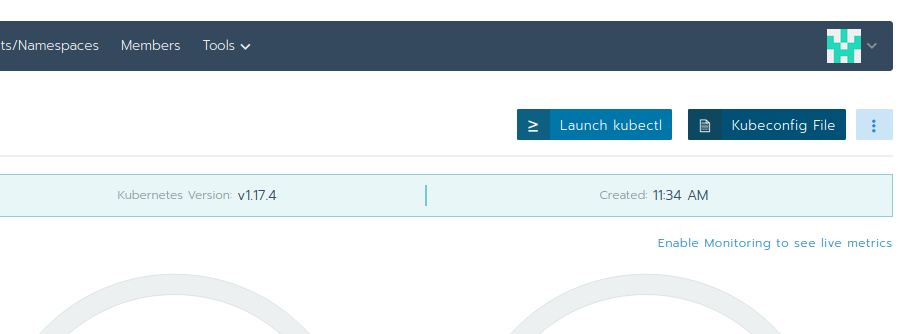
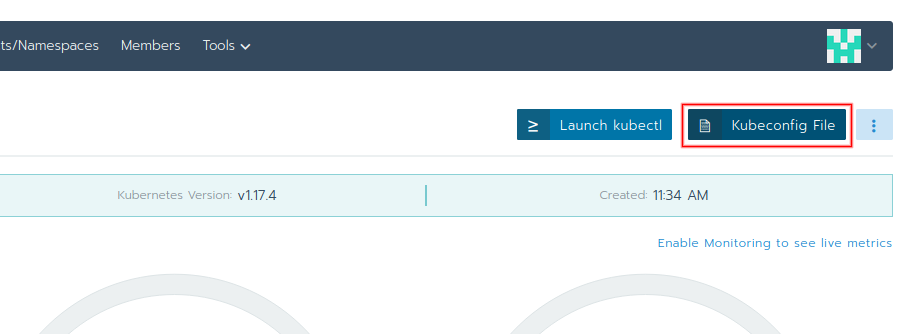
Optimizations of phrasing, wording and terms

Changed region(s): [[0.7296, 0.2994, 0.9425, 0.4491]]

diff --git a/content/en/docs/03.0/_index.en.md b/content/en/docs/03.0/_index.en.md
@@ -5,7 +5,7 @@ sectionnumber: 3
 ---
 
 
-In this lab, we will interact for the first time with the Kubernetes cluster.
+In this lab, we will interact with the Kubernetes cluster for the first time.
 
 {{% alert title="Tip" color="warning" %}}
 Please make sure you completed [lab 2](../02.0/) before you continue with this lab.
@@ -15,33 +15,32 @@ Please make sure you completed [lab 2](../02.0/) before you continue with this l
 ## Login and choose a Kubernetes cluster
 
 {{% alert title="Note" color="warning" %}}
-Authentication depends on the specific Kubernetes cluster environment. You may need special instructions if you're not
-using our lab environment.
+Authentication depends on the specific Kubernetes cluster environment. You may need special instructions if you're not using our lab environment.
 {{% /alert %}}
 
 {{< onlyWhen rancher >}}
-Our Kubernetes cluster of the lab environment runs on [cloudscale.ch](https://cloudscale.ch) (a swiss IaaS Provider) and has been provisioned with [Rancher](https://rancher.com/). You can login into the cluster with a Rancher user.
+Our Kubernetes cluster of the lab environment runs on [cloudscale.ch](https://cloudscale.ch) (a Swiss IaaS provider) and has been provisioned with [Rancher](https://rancher.com/). You can log in into the cluster with a Rancher user.
 
 {{% alert title="Tip" color="warning" %}}
-For details about your credentials to log in, ask your teacher.
+Your teacher will provide you with the credentials to log in.
 {{% /alert %}}
 
-Login into the Rancher WebGUI choose the desired cluster.
+Log in to the Rancher web console and choose the desired cluster.
 
-On the cluster dashboard you find top right a button with `Kubeconfig File`. Save the config file into your homedirectory `.kube/config`. Verify afterwards if `kubectl` works correctly e.g. with `kubectl version`
+You now see a button at the top right that says **Kubeconfig File**. Click it, scroll down to the bottom and click **Copy to Clipboard**.
 
-![Download Kubeconfig File](kubectlconfigfilebutton.png)
+![Download kubeconfig File](kubectlconfigfilebutton.png)
+
+The copied kubeconfig now needs to be put into a file. The default location for the kubeconfig file is `~/.kube/config`.
 
 {{% alert title="Tip" color="warning" %}}
-If you already have a kubeconfig file, you might need to merge the Rancher entries with yours. Or use the KUBECONFIG environment variable to specify a dedicated file.
+If you already have a kubeconfig file, you might need to merge the Rancher entries with yours. Or use a dedicated file as described below.
 {{% /alert %}}
+
+Put the copied content into a kubeconfig file on your system.
+If you decide to not use the default kubeconfig location at `~/.kube/config` then let `kubectl` know where you put it with the KUBECONFIG environment variable:
 
 ```
-#example location ~/.kube-techlab/config
-vim ~/.kube-techlab/config
-# paste content
-
-# set KUBECONFIG Environment Variable to the correct file
 export KUBECONFIG=$KUBECONFIG:~/.kube-techlab/config
 ```
 
@@ -50,16 +49,16 @@ export KUBECONFIG=$KUBECONFIG:~/.kube-techlab/config
 
 ## Namespaces
 
-As a first step we are going to create a new namespace.
+As a first step on the cluster we are going to create a new namespace.
 
 A namespace is the logical design used in Kubernetes to organize and separate your applications, Deployments, Pods, Ingresses, Services, etc., on a top-level basis. Take a look at the [Kubernetes docs](https://kubernetes.io/docs/concepts/overview/working-with-objects/namespaces/). Authorized users inside a namespace are able to manage those resources. Namespace names have to be unique in your cluster.
 
 {{< onlyWhen rancher >}}
 {{% alert title="Note" color="warning" %}}
-Additionally, Rancher does know the concept of a [project](https://rancher.com/docs/rancher/v2.x/en/cluster-admin/projects-and-namespaces/) which encapsulates multiple namespaces.
+Additionally, Rancher knows the concept of a [*Project*](https://rancher.com/docs/rancher/v2.x/en/cluster-admin/projects-and-namespaces/) which encapsulates multiple namespaces.
 {{% /alert %}}
 
-In the Rancher WebGUI you can now choose your Project called `techlab`
+In the Rancher web console choose the Project called `techlab`.
 
 ![Rancher Project](chooseproject.png)
 
@@ -71,12 +70,12 @@ In the Rancher WebGUI you can now choose your Project called `techlab`
 Create a new namespace in the lab environment.
 
 {{% alert title="Note" color="warning" %}}
-Please choose an identifying name for the namespace, in best case your abbreviation. We are going to use `<namespace>` as a placeholder for your created namespace.
+Please choose an identifying name for your Namespace, e.g. your initials or name as a prefix. We are going to use `<namespace>` as a placeholder for your created Namespace.
 {{% /alert %}}
 
 
 {{% alert title="Tip" color="warning" %}}
-How can a new namespace be created? The `kubectl` can help you to figure out the right commands:
+How can a new Namespace be created? The `kubectl` can help you figure out the right command:
 
 ```bash
 kubectl help
@@ -87,7 +86,7 @@ kubectl help
 
 ### Solution
 
-To create a new namespace on your cluster use the following command:
+To create a new Namespace on your cluster use the following command:
 
 ```bash
 kubectl create namespace <namespace>
@@ -95,16 +94,16 @@ kubectl create namespace <namespace>
 
 {{< onlyWhen rancher >}}
 {{% alert title="Note" color="warning" %}}
-Namespaces created via `kubectl`, have to be assigned to your Rancher project in order to be seen inside the Rancher WebGUI. Ask your teacher for the assignement. Or you can create the namespace directlly within the Rancher WebGui
+Namespaces created via `kubectl` have to be assigned to the correct Rancher Project in order to be visible in the Rancher web console. Please ask your teacher for this assignment. Or you can create the namespace directly within the Rancher web console.
 {{% /alert %}}
 {{< /onlyWhen >}}
 
-
 {{% alert title="Tip" color="warning" %}}
-By using the following command, you can switch into another namespace instead of specifying the namespace for each `kubectl` command:
+By using the following command, you can switch into another Namespace instead of specifying it for each `kubectl` command.
+
+Linux:
 
 ```bash
-# Linux:
 kubectl config set-context $(kubectl config current-context) --namespace <namespace>
 ```
 
@@ -112,13 +111,11 @@ Windows:
 
 ```bash
 kubectl config current-context
-// Save the context in a variable
 SET KUBE_CONTEXT=[Insert output of the upper command]
 kubectl config set-context %KUBE_CONTEXT% --namespace <namespace>
 ```
 
-Some prefer to explicitly select the namespace for each `kubectl` command by adding `--namespace <namespace>`
-or `-n <namespace>`. And others prefer helper tools like `kubens`, see [lab 2](../02.0)
+Some prefer to explicitly select the Namespace for each `kubectl` command by adding `--namespace <namespace>` or `-n <namespace>`. Others prefer helper tools like `kubens` (see [lab 2](../02.0)).
 {{% /alert %}}
 
 
@@ -127,13 +124,13 @@ or `-n <namespace>`. And others prefer helper tools like `kubens`, see [lab 2](.
 
 ## Task {{% param sectionnumber %}}.2: Discover the Rancher web console
 
-Check the menu entries, there should neither appear any deployments nor any Pods or Services in your namespace.
+Check the menu entries, there should neither appear any Deployments nor any Pods or Services in your Namespace.
 
-Display all existing Pods in the previously created namespace with `kubectl`  (there should not yet be any!):
+Display all existing Pods in the previously created Namespace with `kubectl` (there shouldn't yet be any):
 
 ```bash
 kubectl get pod -n <namespace>
 ```
 
-With the command `kubectl get` you can display all kinds of resources of different types.
+With the command `kubectl get` you can display all kinds of resources.
 {{< /onlyWhen >}}

diff --git a/content/en/docs/02.0/_index.en.md b/content/en/docs/02.0/_index.en.md
@@ -19,33 +19,30 @@ As the client is written in Go, you can run the single binary on the following o
 
 {{< onlyWhen rancher >}}
 {{% alert title="Tip" color="warning" %}}
-In Rancher you can also use `kubectl` directly within your browser. As soon as you are loggend in Rancher WebGUI, click on "Launch kubectl" (or use the ° key) and you get a console with `kubectl` installed and configured.
+In Rancher you can also use `kubectl` directly within your browser. As soon as you are logged in in the Rancher web console, click on **Launch kubectl** (or use the ° key) and you get a console with `kubectl` installed and configured.
 {{% /alert %}}
 {{< /onlyWhen >}}
 
 
 ## Manual installation of kubectl
 
-Follow <https://kubernetes.io/docs/tasks/tools/install-kubectl/>
+Follow <https://kubernetes.io/docs/tasks/tools/install-kubectl/>.
 
 In case the installation from the official package repositories didn't work (or a specific version is needed) the static binary can be downloaded and put into one of the following paths.
 
-
-**Linux:**
-
-```
-~/bin
-```
-
-
-**macOS:**
+Linux:
 
 ```
 ~/bin
 ```
 
+macOS:
 
-**Windows:**
+```
+~/bin
+```
+
+Windows:
 
 ```
 C:\Kubernetes\
@@ -64,7 +61,7 @@ chmod +x kubectl
 
 ## PATH variable
 
-In **Linux** and **macOSX** the directory `~/bin` should already be part of the `PATH` variable.
+In Linux and macOS the directory `~/bin` should already be part of the `PATH` variable.
 In case `kubectl` is placed in a different directory, you can change the `PATH` variable with the following command:
 
 ```bash
@@ -80,7 +77,7 @@ The `PATH` can be set in Windows in the advanced system settings. It depends on 
 * [Windows 8](http://www.itechtics.com/customize-windows-environment-variables/)
 * [Windows 10](http://techmixx.de/windows-10-umgebungsvariablen-bearbeiten/)
 
-{{% alert title="Windows Quick Hack" color="warning" %}}
+{{% alert title="Windows quick hack" color="warning" %}}
 Copy the `kubectl` binary directly into the folder `C:\Windows`.
 {{% /alert %}}
 
@@ -93,17 +90,17 @@ The `kubectl` binary should be correctly installed by now. This can be proofed b
 kubectl version
 ```
 
-The output should look similar to this:
+The output should look similar to this (version numbers and the build date can vary):
 
 ```
 Client Version: version.Info{Major:"1", Minor:"18", GitVersion:"v1.18.0", GitCommit:"9e991415386e4cf155a24b1da15becaa390438d8", GitTreeState:"clean", BuildDate:"2020-03-25T14:58:59Z", GoVersion:"go1.13.8", Compiler:"gc", Platform:"linux/amd64"}
 ...
 ```
 
-If you don't see a similar out, possibly there are issues with the `PATH` variable.
+If you don't see a similar output, possibly there are issues with the `PATH` variable.
 
 {{% alert title="Note" color="warning" %}}
-Make sure to use at least version 1.16.x for your `kubectl`
+Make sure to use at least version 1.16.x for your `kubectl`.
 {{% /alert %}}
 
 
@@ -127,28 +124,31 @@ To make it permanent, you can put that command in your Bash configuration file:
 echo "source <(kubectl completion bash)" >> ~/.bashrc
 ```
 
-On most Linux systems, you have to install the `bash-completion` packet to make the completion work.
+On most Linux systems, you have to install the `bash-completion` package to make the completion work.
 
-Ubuntu:
+Debian/Ubuntu:
 
 ```bash
 sudo apt install bash-completion
 ```
 
+Fedora:
+
+```bash
+sudo dnf install bash-completion
+```
+
 
 ## First steps with kubectl
 
-The `kubectl` has many commands and sub-commands. Invoke `kubectl -h` to get a list of all commands; `kubectl <command> -h`
-gives you detailed help about a command.
+The `kubectl` binary has many commands and sub-commands. Invoke `kubectl -h` to get a list of all commands; `kubectl <command> -h` gives you detailed help about a command.
 
-If you don't want to memorize all `kubectl` options then use the `kubectl` cheat sheet:
-<https://kubernetes.io/docs/reference/kubectl/cheatsheet/>
+If you don't want to memorize all `kubectl` options then use the `kubectl` cheat sheet: <https://kubernetes.io/docs/reference/kubectl/cheatsheet/>
 
 
 ## Optional power tools for kubectl
 
-`kubectx` and `kubens` are two handy shell scripts which let you easily switch between Kubernetes contexts and
-namespaces. See <https://github.com/ahmetb/kubectx> for detailed instructions.
+`kubectx` and `kubens` are two handy shell scripts which let you easily switch between Kubernetes contexts and namespaces. See <https://github.com/ahmetb/kubectx> for detailed instructions.
 
 Installation of `kubectx` and `kubens`:
 
@@ -161,11 +161,9 @@ chmod +x ~/bin/kubectx ~/bin/kubens
 `kube-ps1` is another helpful shell script which adds the current context and namespace to the shell prompt:
 <https://github.com/jonmosco/kube-ps1>
 
-`fzf` is yet another handy helper tool when you have to deal with a lot of contexts or namespaces by
-adding an interactive menu to `kubectx`and `kubens`: <https://github.com/junegunn/fzf>
+`fzf` is yet another handy helper tool when you have to deal with a lot of contexts or namespaces by adding an interactive menu to `kubectx`and `kubens`: <https://github.com/junegunn/fzf>
 
-`stern` is a very powerful enhancement of `kubectl logs` and lets you tail logs of multiple containers and Pods at the
-same time: <https://github.com/wercker/stern>.
+`stern` is a very powerful enhancement of `kubectl logs` and lets you tail logs of multiple containers and Pods at the same time: <https://github.com/wercker/stern>.
 
 
 ## Other tools to work with Kubernetes

diff --git a/content/en/docs/01.0/_index.en.md b/content/en/docs/01.0/_index.en.md
@@ -29,7 +29,8 @@ Kubernetes consists of master and worker (minion, compute) nodes.
 The master components are the _API server_, the _scheduler_ and the _controller manager_.
 The API server itself represents the management interface.
 The scheduler and the controller manager decide how applications should be deployed on the cluster. Additionally, the state and configuration of the cluster itself is controlled in the master components.
-Worker nodes are also known as compute nodes or minions and are responsible for running the container workloads (applications).
+
+Worker nodes are also known as compute nodes or minions and are responsible for running the container workload (applications).
 The _control plane_ for the worker nodes is implemented in the master components.
 
 
@@ -69,7 +70,7 @@ Some resources are valid cluster-wise and cannot be set and controlled on a name
 ### Pods
 
 A Pod is the smallest entity in Kubernetes. It represents one instance of your running application process.
-The Pod consists out of at least two containers, one for your application itself and another one as part of the Kubernetes design, to keep the network namespace.
+The Pod consists of at least two containers, one for your application itself and another one as part of the Kubernetes design, to keep the network namespace.
 The so called infrastructure container (or pause container) therefore is automatically added by Kubernetes.
 
 The application ports from inside the Pod are exposed via Services.
@@ -77,7 +78,7 @@ The application ports from inside the Pod are exposed via Services.
 
 ### Services
 
-A service represents a "stateful" endpoint for your application in the Pod. As a Pod and its IP address typically are considered stateless, the IP address of the Service does not change, when changing the application inside the Pod. If you scale up your Pods, you have an automatic internal load balancing towards all Pod IP addresses.
+A service represents a static endpoint for your application in the Pod. As a Pod and its IP address typically are considered dynamic, the IP address of the Service does not change when changing the application inside the Pod. If you scale up your Pods, you have an automatic internal load balancing towards all Pod IP addresses.
 
 There are different kinds of Services:
 
@@ -91,14 +92,14 @@ A Service is unique inside a namespace.
 
 ### Deployment
 
-Please follow <https://kubernetes.io/docs/concepts/workloads/controllers/deployment/>
+Please follow <https://kubernetes.io/docs/concepts/workloads/controllers/deployment/>.
 
 
 ### Volume
 
-Please follow <https://kubernetes.io/docs/concepts/storage/volumes/>
+Please follow <https://kubernetes.io/docs/concepts/storage/volumes/>.
 
 
 ### Job
 
-Please follow <https://kubernetes.io/docs/concepts/workloads/controllers/jobs-run-to-completion/>
+Please follow <https://kubernetes.io/docs/concepts/workloads/controllers/jobs-run-to-completion/>.

diff --git a/content/en/docs/_index.en.md b/content/en/docs/_index.en.md
@@ -6,13 +6,13 @@ menu:
     weight: 1
 ---
 
-The goal of these labs is to create some hands-on tasks for people. By using the Kubernetes(k8s) platform you find an easy way to deploy and deliver your software packaged in container.
+The purpose of these labs is to convey Kubernetes basics by providing hands-on tasks for people. Kubernetes (K8s) will allow you to deploy and deliver your software packaged as containers in an easy, straight-forward way.
 
-Goal of these labs:
+Goals of these labs:
 
-* Having an easy start with this modern technology
-* Understand the basic concepts
-* Deploy applications on kubernetes
+* Help you get started with this modern technology
+* Explain to you the basic concepts
+* Show you how to deploy your first applications on Kubernetes
 
 
 ## Additional Docs
